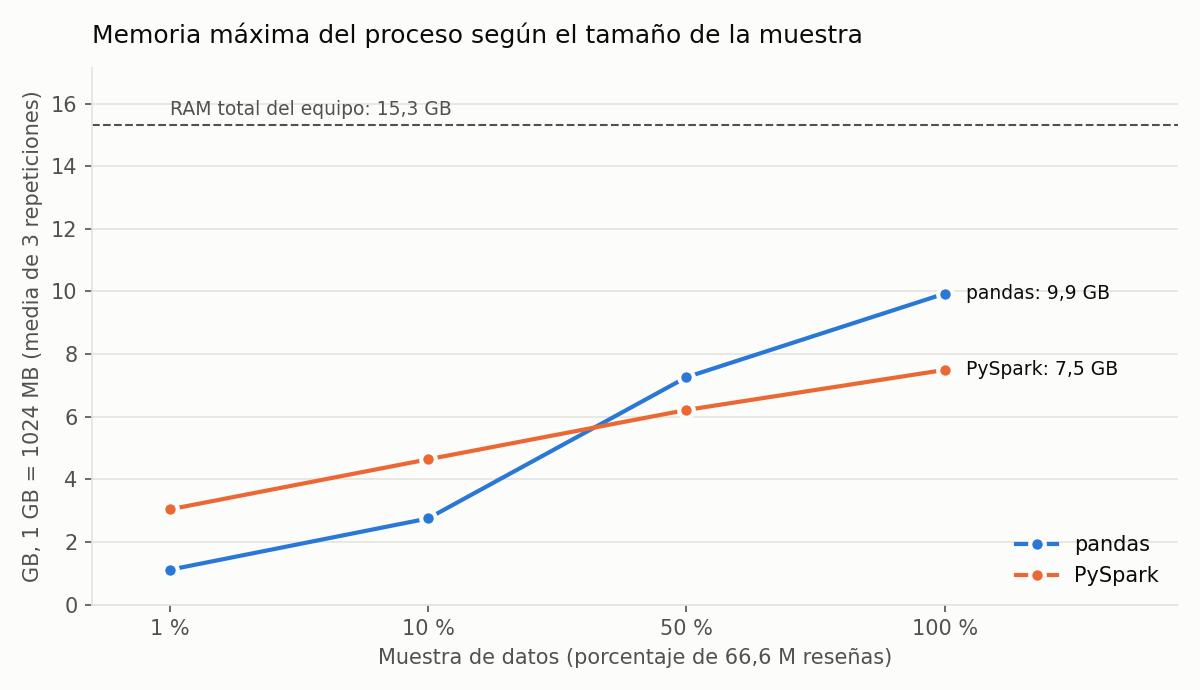
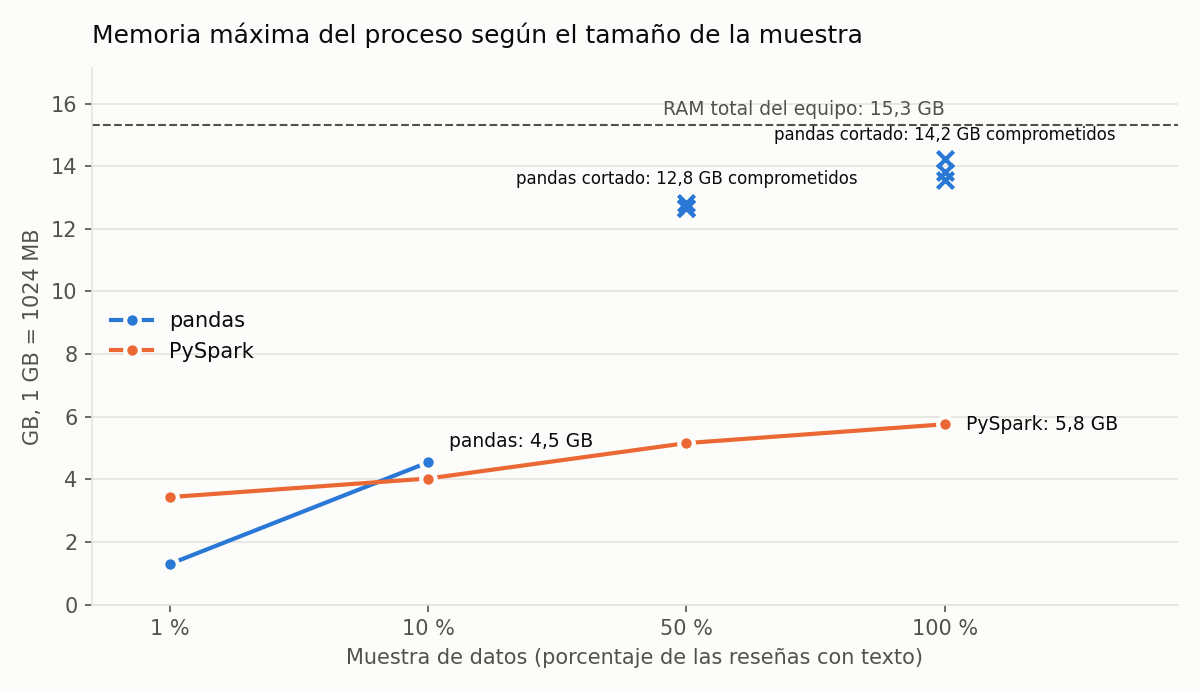
docs(charts): rebuild charts from the raw-text route
Killed pandas runs (50 % and 100 %) are excluded from every average and
drawn as an X at the private memory committed when the RAM guard cut
them. The per-operation chart moves to 10 %, the largest sample both
engines finish.

diff --git a/docs/graficos/make_charts.py b/docs/graficos/make_charts.py
@@ -1,19 +1,27 @@
-"""Build the report charts from the measurement ladder CSV.
+"""Build the report charts from a measurement CSV.
 
 Usage (from the repository root):
 
     python docs/graficos/make_charts.py [path/to/measurements.csv]
 
+The default input is the raw-text route (``measurements_raw_text.csv``), where
+pandas cannot finish the larger samples.
+
 Each run in the CSV has one row per operation; a run's total time is the sum of
-its operations and its peak memory is the highest peak among them. Every chart
-uses the same color per engine (pandas = blue, Spark = orange), checked for
-color-blind safety, and every series is also labeled directly so color is
-never the only cue. A Markdown table with the same numbers is written next to
-the images for readers who need the values.
+its operations and its peak memory is the highest peak among them. A run with
+an ``error`` (killed by the RAM guard) has no valid time: it is left out of
+every average and drawn instead as an "X" at the private memory it had
+committed when it was killed, so a failure never looks like a fast run.
+
+Every chart uses the same color per engine (pandas = blue, Spark = orange),
+checked for color-blind safety, and every series is also labeled directly so
+color is never the only cue. A Markdown table with the same numbers is written
+next to the images for readers who need the values.
 """
 
 from __future__ import annotations
 
+import re
 import sys
 from pathlib import Path
 
@@ -24,11 +32,13 @@ import matplotlib.pyplot as plt
 import pandas as pd
 
 HERE = Path(__file__).resolve().parent
-DEFAULT_CSV = HERE.parent / "evidencia" / "measurements_ladder.csv"
+DEFAULT_CSV = HERE.parent / "evidencia" / "measurements_raw_text.csv"
 
 ENGINES = {"pandas": ("pandas", "#2a78d6"), "spark": ("PySpark", "#eb6834")}
 TEXT_PRIMARY, TEXT_SECONDARY, GRID, SURFACE = "#0b0b0b", "#52514e", "#e4e3df", "#fcfcfb"
-MACHINE_RAM_GB = 15.3  # test machine (docs/evidencia/report_ladder.md)
+MACHINE_RAM_GB = 15.3  # test machine (docs/evidencia/report_raw_text.md)
+MB_PER_GB = 1024
+OPERATIONS_LEVEL = 10.0  # largest sample both engines finish
 OPERATION_NAMES = {
     "read": "Lectura",
     "clean": "Limpieza",
@@ -38,20 +48,52 @@ OPERATION_NAMES = {
     "aggregate_by_time": "Agregado temporal",
     "write_parquet": "Escritura Parquet",
 }
+# "... process tree 13894.2 MB private (8344.4 MB resident) at kill"
+PRIVATE_AT_KILL = re.compile(r"([\d.]+) MB private")
 
 
-def load_runs(csv_path: Path) -> pd.DataFrame:
-    """Return one row per run (engine, level, repetition) with total time and peak memory."""
+def _es(value: float, decimals: int = 1) -> str:
+    """Format a number the Spanish way: 1.234,5."""
+    text = f"{value:,.{decimals}f}"
+    return text.replace(",", "X").replace(".", ",").replace("X", ".")
+
+
+def load_rows(csv_path: Path) -> pd.DataFrame:
+    """Read the CSV, keeping only the two engines compared in the charts."""
     rows = pd.read_csv(csv_path)
+    return rows[rows["engine"].isin(ENGINES)]
+
+
+def load_runs(rows: pd.DataFrame) -> pd.DataFrame:
+    """One row per finished run (engine, level, repetition): total time and peak memory.
+
+    A run counts as failed if any of its rows has an error; failed runs are
+    returned by ``load_failures`` instead.
+    """
+    failed = rows.groupby(["engine", "level_pct", "rep"])["error"].transform(
+        lambda errors: errors.notna().any()
+    )
     return (
-        rows.groupby(["engine", "level_pct", "rep"], as_index=False)
+        rows[~failed]
+        .groupby(["engine", "level_pct", "rep"], as_index=False)
         .agg(total_s=("time_s", "sum"), peak_gb=("peak_mb", "max"))
-        .assign(peak_gb=lambda frame: frame["peak_gb"] / 1024)
+        .assign(peak_gb=lambda frame: frame["peak_gb"] / MB_PER_GB)
+    )
+
+
+def load_failures(rows: pd.DataFrame) -> pd.DataFrame:
+    """One row per killed run, with the private memory it had committed at the kill."""
+    errors = rows[rows["error"].notna()]
+    private_mb = errors["error"].str.extract(PRIVATE_AT_KILL, expand=False).astype(float)
+    return (
+        errors.assign(private_gb=private_mb / MB_PER_GB)
+        .groupby(["engine", "level_pct", "rep"], as_index=False)
+        .agg(private_gb=("private_gb", "max"), error=("error", "first"))
     )
 
 
 def summarize(runs: pd.DataFrame) -> pd.DataFrame:
-    """Mean, min and max across repetitions for each engine and level."""
+    """Mean, min and max across the finished repetitions of each engine and level."""
     return runs.groupby(["engine", "level_pct"]).agg(
         time_mean=("total_s", "mean"),
         time_min=("total_s", "min"),
@@ -78,68 +120,98 @@ def _style(axis, title: str, ylabel: str) -> None:
 
 def _level_axis(axis, levels) -> None:
     axis.set_xticks(range(len(levels)), [f"{level:g} %" for level in levels])
-    axis.set_xlabel("Muestra de datos (porcentaje de 66,6 M reseñas)", color=TEXT_SECONDARY)
+    axis.set_xlabel("Muestra de datos (porcentaje de las reseñas con texto)", color=TEXT_SECONDARY)
 
 
-def line_chart(summary: pd.DataFrame, value: str, low: str | None, high: str | None,
-               title: str, ylabel: str, unit: str, output: Path, ram_line: bool = False) -> None:
-    """One line per engine across the sample levels, with min-max whiskers."""
+def line_chart(summary: pd.DataFrame, failures: pd.DataFrame, value: str,
+               low: str | None, high: str | None, title: str, ylabel: str, unit: str,
+               output: Path, memory: bool = False) -> None:
+    """One line per engine across the levels, min-max whiskers, and an X per killed run.
+
+    On the time chart a killed run has no time, so its X sits on the top edge
+    with a "no terminó" label; on the memory chart it sits at the private
+    memory committed when it was killed.
+    """
     figure, axis = plt.subplots(figsize=(8, 4.6), dpi=150, facecolor=SURFACE)
-    levels = sorted(summary["level_pct"].unique())
+    levels = sorted(set(summary["level_pct"]) | set(failures["level_pct"]))
+    position = {level: index for index, level in enumerate(levels)}
+    # Headroom above the highest whisker for the "no terminó" marks and labels.
+    top = summary[high or value].max() * (1.15 if memory else 1.35)
+    if memory:
+        top = max(top, failures["private_gb"].max() * 1.1 if len(failures) else 0,
+                  MACHINE_RAM_GB * 1.12)
+
     for engine, (label, color) in ENGINES.items():
         data = summary[summary["engine"] == engine].sort_values("level_pct")
-        x = range(len(data))
+        x = [position[level] for level in data["level_pct"]]
         axis.plot(x, data[value], color=color, linewidth=2, marker="o", markersize=7,
                   markeredgecolor=SURFACE, markeredgewidth=2, label=label, zorder=3)
         if low and high:
             axis.vlines(x, data[low], data[high], color=color, linewidth=2, alpha=0.45, zorder=2)
         last = data.iloc[-1]
-        axis.annotate(f"{label}: {last[value]:,.1f} {unit}".replace(",", "X").replace(".", ",").replace("X", "."),
-                      (len(data) - 1, last[value]), xytext=(10, 0), textcoords="offset points",
-                      va="center", fontsize=9, color=TEXT_PRIMARY)
-    if ram_line:
+        lift = 10 if engine == "pandas" else 0  # keeps pandas' label off Spark's line
+        axis.annotate(f"{label}: {_es(last[value])} {unit}", (x[-1], last[value]),
+                      xytext=(10, lift), textcoords="offset points", va="center", fontsize=9,
+                      color=TEXT_PRIMARY)
+
+        killed = failures[failures["engine"] == engine]
+        for level, group in killed.groupby("level_pct"):
+            heights = group["private_gb"] if memory else [top * 0.85] * len(group)
+            axis.scatter([position[level]] * len(group), heights, marker="x", s=60,
+                         color=color, linewidths=2, zorder=4)
+            note = (f"{label} cortado: {_es(max(heights))} GB comprometidos" if memory
+                    else f"{label}: no terminó\n{len(group)}/{len(group)} cortadas por RAM")
+            axis.annotate(note, (position[level], max(heights)), xytext=(0, 9),
+                          textcoords="offset points", ha="center", fontsize=8,
+                          color=TEXT_PRIMARY)
+
+    if memory:
         axis.axhline(MACHINE_RAM_GB, color=TEXT_SECONDARY, linewidth=1, linestyle="--", zorder=1)
-        axis.annotate(f"RAM total del equipo: {MACHINE_RAM_GB:g} GB".replace(".", ","),
-                      (0, MACHINE_RAM_GB), xytext=(0, 5), textcoords="offset points",
-                      fontsize=9, color=TEXT_SECONDARY)
-        axis.set_ylim(0, MACHINE_RAM_GB * 1.12)
+        axis.annotate(f"RAM total del equipo: {_es(MACHINE_RAM_GB)} GB",
+                      (len(levels) - 1, MACHINE_RAM_GB), xytext=(0, 5), textcoords="offset points",
+                      ha="right", fontsize=9, color=TEXT_SECONDARY)
+    axis.set_ylim(0, top)
     _level_axis(axis, levels)
     _style(axis, title, ylabel)
     axis.set_xlim(-0.3, len(levels) - 1 + 0.9)
-    axis.legend(frameon=False, loc="lower right" if ram_line else "upper left", labelcolor=TEXT_PRIMARY)
+    axis.legend(frameon=False, loc="center left" if memory else "upper left",
+                labelcolor=TEXT_PRIMARY)
     figure.tight_layout()
     figure.savefig(output, facecolor=SURFACE)
     plt.close(figure)
 
 
-def speed_ratio_chart(summary: pd.DataFrame, output: Path) -> None:
-    """How many times faster pandas is than Spark at each level (1 = equal)."""
+def speed_ratio_chart(summary: pd.DataFrame, output: Path) -> pd.Series:
+    """Spark time divided by pandas time, only where both engines finished."""
     pivot = summary.pivot(index="level_pct", columns="engine", values="time_mean").sort_index()
-    ratio = pivot["spark"] / pivot["pandas"]
+    ratio = (pivot["spark"] / pivot["pandas"]).dropna()
     figure, axis = plt.subplots(figsize=(8, 4.2), dpi=150, facecolor=SURFACE)
     x = range(len(ratio))
     axis.plot(x, ratio.values, color=ENGINES["pandas"][1], linewidth=2, marker="o", markersize=7,
               markeredgecolor=SURFACE, markeredgewidth=2, zorder=3)
-    for position, value in zip(x, ratio.values):
-        axis.annotate(f"{value:.1f}×".replace(".", ","), (position, value), xytext=(0, 9),
+    for spot, value in zip(x, ratio.values):
+        axis.annotate(f"{_es(value)}×", (spot, value), xytext=(0, 9),
                       textcoords="offset points", ha="center", fontsize=9, color=TEXT_PRIMARY)
     axis.axhline(1, color=TEXT_SECONDARY, linewidth=1, linestyle="--")
-    axis.annotate("1× = mismo tiempo", (len(ratio) - 1, 1), xytext=(0, -14), textcoords="offset points",
-                  ha="right", fontsize=9, color=TEXT_SECONDARY)
+    axis.annotate("1× = mismo tiempo", (len(ratio) - 1, 1), xytext=(0, -14),
+                  textcoords="offset points", ha="right", fontsize=9, color=TEXT_SECONDARY)
     axis.set_ylim(0, ratio.max() * 1.18)
+    axis.set_xlim(-0.4, len(ratio) - 1 + 0.4)
     _level_axis(axis, list(ratio.index))
-    _style(axis, "Ventaja de tiempo de pandas sobre PySpark (tiempo Spark ÷ tiempo pandas)",
+    _style(axis, "Ventaja de pandas donde ambos terminan (tiempo Spark ÷ tiempo pandas)",
            "Veces más rápido pandas")
     figure.tight_layout()
     figure.savefig(output, facecolor=SURFACE)
     plt.close(figure)
+    return ratio
 
 
-def operations_chart(csv_path: Path, level: float, output: Path) -> pd.DataFrame:
+def operations_chart(rows: pd.DataFrame, runs: pd.DataFrame, level: float,
+                     output: Path) -> pd.DataFrame:
     """Mean time of each operation at one level, both engines side by side."""
-    rows = pd.read_csv(csv_path)
+    finished = rows.merge(runs[["engine", "level_pct", "rep"]], on=["engine", "level_pct", "rep"])
     data = (
-        rows[rows["level_pct"] == level]
+        finished[finished["level_pct"] == level]
         .groupby(["operation", "engine"])["time_s"].mean()
         .unstack("engine")
         .reindex(list(OPERATION_NAMES))
@@ -151,7 +223,7 @@ def operations_chart(csv_path: Path, level: float, output: Path) -> pd.DataFrame
         y = [p + offset * (height + gap) / 2 for p in positions]
         bars = axis.barh(y, data[engine], height=height, color=color, label=label, zorder=3)
         for bar, value in zip(bars, data[engine]):
-            axis.annotate(f"{value:.1f} s".replace(".", ","), (bar.get_width(), bar.get_y() + height / 2),
+            axis.annotate(f"{_es(value)} s", (bar.get_width(), bar.get_y() + height / 2),
                           xytext=(4, 0), textcoords="offset points", va="center", fontsize=8,
                           color=TEXT_SECONDARY)
     axis.set_yticks(list(positions), [OPERATION_NAMES[name] for name in data.index])
@@ -159,23 +231,28 @@ def operations_chart(csv_path: Path, level: float, output: Path) -> pd.DataFrame
     _style(axis, f"Tiempo medio por operación al {level:g} % de los datos", "")
     axis.grid(axis="y", visible=False)
     axis.grid(axis="x", color=GRID, linewidth=0.8)
-    axis.set_xlabel("Segundos (media de 3 repeticiones)", color=TEXT_SECONDARY)
+    axis.set_xlabel(f"Segundos (media de 3 repeticiones; {level:g} % = mayor muestra que ambos terminan)",
+                    color=TEXT_SECONDARY)
     axis.set_xlim(0, data.max().max() * 1.18)
-    axis.legend(frameon=False, loc="upper right", labelcolor=TEXT_PRIMARY)
+    axis.legend(frameon=False, loc="center right", labelcolor=TEXT_PRIMARY)
     figure.tight_layout()
     figure.savefig(output, facecolor=SURFACE)
     plt.close(figure)
     return data
 
 
-def write_table(summary: pd.DataFrame, operations: pd.DataFrame, output: Path) -> None:
+def write_table(csv_path: Path, summary: pd.DataFrame, failures: pd.DataFrame,
+                ratio: pd.Series, operations: pd.DataFrame, output: Path) -> None:
     """Write the numbers behind the charts as Markdown (the accessible table view)."""
     lines = [
         "# Datos de los gráficos",
         "",
-        "Generado por `docs/graficos/make_charts.py` desde `docs/evidencia/measurements_ladder.csv`.",
+        f"Generado por `docs/graficos/make_charts.py` desde `docs/evidencia/{csv_path.name}`.",
         "Tiempo total de una corrida = suma de sus operaciones; pico = el mayor pico entre ellas.",
-        "GB con 1 GB = 1024 MB (el reporte de Daniel divide entre 1000: 10 172 MB = 9,93 GB aquí y 10,2 GB allá).",
+        "Las corridas cortadas por la guardia de RAM no entran en ningún promedio.",
+        f"GB con 1 GB = {MB_PER_GB} MB.",
+        "",
+        "## Corridas terminadas",
         "",
         "| Muestra | Motor | Corridas | Tiempo medio (s) | Mín (s) | Máx (s) | Pico medio (GB) | Pico máx (GB) |",
         "|---|---|---|---|---|---|---|---|",
@@ -185,7 +262,16 @@ def write_table(summary: pd.DataFrame, operations: pd.DataFrame, output: Path) -
             f"| {row.level_pct:g} % | {ENGINES[row.engine][0]} | {row.runs} | {row.time_mean:.1f} | "
             f"{row.time_min:.1f} | {row.time_max:.1f} | {row.peak_mean:.2f} | {row.peak_max:.2f} |"
         )
-    lines += ["", "Tiempo medio por operación al 100 % (s):", "",
+    lines += ["", "## Corridas cortadas (no terminaron)", "",
+              "| Muestra | Motor | Rep. | Memoria privada al corte (GB) | Registro |",
+              "|---|---|---|---|---|"]
+    for row in failures.sort_values(["level_pct", "engine", "rep"]).itertuples():
+        lines.append(f"| {row.level_pct:g} % | {ENGINES[row.engine][0]} | {row.rep} | "
+                     f"{row.private_gb:.2f} | {row.error} |")
+    lines += ["", "## Tiempo Spark ÷ tiempo pandas (donde ambos terminan)", "",
+              "| Muestra | Veces |", "|---|---|"]
+    lines += [f"| {level:g} % | {value:.1f} |" for level, value in ratio.items()]
+    lines += ["", f"## Tiempo medio por operación al {OPERATIONS_LEVEL:g} % (s)", "",
               "| Operación | pandas | PySpark |", "|---|---|---|"]
     for name, row in operations.iterrows():
         lines.append(f"| {OPERATION_NAMES[name]} | {row['pandas']:.1f} | {row['spark']:.1f} |")
@@ -194,17 +280,20 @@ def write_table(summary: pd.DataFrame, operations: pd.DataFrame, output: Path) -
 
 def main(argv: list[str]) -> int:
     csv_path = Path(argv[1]) if len(argv) > 1 else DEFAULT_CSV
-    summary = summarize(load_runs(csv_path))
-    line_chart(summary, "time_mean", "time_min", "time_max",
+    rows = load_rows(csv_path)
+    runs = load_runs(rows)
+    failures = load_failures(rows)
+    summary = summarize(runs)
+    line_chart(summary, failures, "time_mean", "time_min", "time_max",
                "Tiempo total de la canalización según el tamaño de la muestra",
-               "Segundos (media de 3 repeticiones)", "s", HERE / "tiempo_total.png")
-    line_chart(summary, "peak_mean", None, None,
+               "Segundos (media de las corridas terminadas)", "s", HERE / "tiempo_total.png")
+    line_chart(summary, failures, "peak_mean", None, None,
                "Memoria máxima del proceso según el tamaño de la muestra",
-               "GB, 1 GB = 1024 MB (media de 3 repeticiones)", "GB", HERE / "memoria_pico.png",
-               ram_line=True)
-    speed_ratio_chart(summary, HERE / "ventaja_tiempo.png")
-    operations = operations_chart(csv_path, 100.0, HERE / "tiempo_por_operacion_100.png")
-    write_table(summary, operations, HERE / "datos_graficos.md")
+               f"GB, 1 GB = {MB_PER_GB} MB", "GB", HERE / "memoria_pico.png", memory=True)
+    ratio = speed_ratio_chart(summary, HERE / "ventaja_tiempo.png")
+    operations = operations_chart(rows, runs, OPERATIONS_LEVEL,
+                                  HERE / f"tiempo_por_operacion_{OPERATIONS_LEVEL:g}.png")
+    write_table(csv_path, summary, failures, ratio, operations, HERE / "datos_graficos.md")
     print("charts written to", HERE)
     return 0
 

diff --git a/docs/graficos/datos_graficos.md b/docs/graficos/datos_graficos.md
@@ -1,28 +1,47 @@
 # Datos de los gráficos
 
-Generado por `docs/graficos/make_charts.py` desde `docs/evidencia/measurements_ladder.csv`.
+Generado por `docs/graficos/make_charts.py` desde `docs/evidencia/measurements_raw_text.csv`.
 Tiempo total de una corrida = suma de sus operaciones; pico = el mayor pico entre ellas.
-GB con 1 GB = 1024 MB (el reporte de Daniel divide entre 1000: 10 172 MB = 9,93 GB aquí y 10,2 GB allá).
+Las corridas cortadas por la guardia de RAM no entran en ningún promedio.
+GB con 1 GB = 1024 MB.
+
+## Corridas terminadas
 
 | Muestra | Motor | Corridas | Tiempo medio (s) | Mín (s) | Máx (s) | Pico medio (GB) | Pico máx (GB) |
 |---|---|---|---|---|---|---|---|
-| 1 % | pandas | 3 | 4.9 | 4.6 | 5.4 | 1.11 | 1.13 |
-| 1 % | PySpark | 3 | 72.9 | 70.4 | 77.6 | 3.04 | 3.11 |
-| 10 % | pandas | 3 | 25.7 | 24.9 | 26.8 | 2.75 | 2.77 |
-| 10 % | PySpark | 3 | 121.3 | 119.4 | 122.9 | 4.64 | 4.90 |
-| 50 % | pandas | 3 | 143.1 | 130.8 | 159.0 | 7.26 | 7.92 |
-| 50 % | PySpark | 3 | 241.1 | 200.5 | 263.5 | 6.22 | 6.40 |
-| 100 % | pandas | 3 | 205.1 | 188.1 | 236.5 | 9.93 | 10.00 |
-| 100 % | PySpark | 3 | 311.1 | 257.3 | 342.5 | 7.49 | 7.97 |
+| 1 % | pandas | 3 | 4.7 | 4.0 | 5.7 | 1.29 | 1.30 |
+| 1 % | PySpark | 3 | 52.7 | 50.9 | 54.8 | 3.43 | 3.75 |
+| 10 % | pandas | 3 | 27.8 | 26.4 | 29.8 | 4.54 | 4.58 |
+| 10 % | PySpark | 3 | 106.8 | 87.6 | 132.5 | 4.03 | 4.06 |
+| 50 % | PySpark | 1 | 433.3 | 433.3 | 433.3 | 5.16 | 5.16 |
+| 100 % | PySpark | 1 | 705.7 | 705.7 | 705.7 | 5.76 | 5.76 |
 
-Tiempo medio por operación al 100 % (s):
+## Corridas cortadas (no terminaron)
+
+| Muestra | Motor | Rep. | Memoria privada al corte (GB) | Registro |
+|---|---|---|---|---|
+| 50 % | pandas | 1 | 12.68 | killed at system RAM 97% (available 506 MB); process tree 12984.2 MB private (10384.0 MB resident) at kill |
+| 50 % | pandas | 2 | 12.66 | killed at system RAM 98% (available 390 MB); process tree 12965.5 MB private (10548.5 MB resident) at kill |
+| 50 % | pandas | 3 | 12.82 | killed at system RAM 98% (available 260 MB); process tree 13130.7 MB private (10371.5 MB resident) at kill |
+| 100 % | pandas | 1 | 13.57 | killed at system RAM 99% (available 138 MB); process tree 13894.2 MB private (8344.4 MB resident) at kill |
+| 100 % | pandas | 2 | 14.24 | killed at system RAM 99% (available 114 MB); process tree 14579.8 MB private (8434.4 MB resident) at kill |
+| 100 % | pandas | 3 | 13.83 | killed at system RAM 98% (available 239 MB); process tree 14162.1 MB private (10846.3 MB resident) at kill |
+
+## Tiempo Spark ÷ tiempo pandas (donde ambos terminan)
+
+| Muestra | Veces |
+|---|---|
+| 1 % | 11.3 |
+| 10 % | 3.8 |
+
+## Tiempo medio por operación al 10 % (s)
 
 | Operación | pandas | PySpark |
 |---|---|---|
-| Lectura | 4.2 | 5.5 |
-| Limpieza | 1.0 | 6.6 |
-| Columnas derivadas | 39.6 | 5.3 |
-| Join con catálogo | 104.8 | 35.4 |
-| Agregado por tienda | 46.3 | 92.6 |
-| Agregado temporal | 8.9 | 59.9 |
-| Escritura Parquet | 0.2 | 105.9 |
+| Lectura | 2.5 | 7.7 |
+| Limpieza | 0.1 | 4.0 |
+| Columnas derivadas | 8.0 | 2.8 |
+| Join con catálogo | 11.5 | 11.5 |
+| Agregado por tienda | 4.6 | 29.0 |
+| Agregado temporal | 0.8 | 19.5 |
+| Escritura Parquet | 0.2 | 32.3 |
